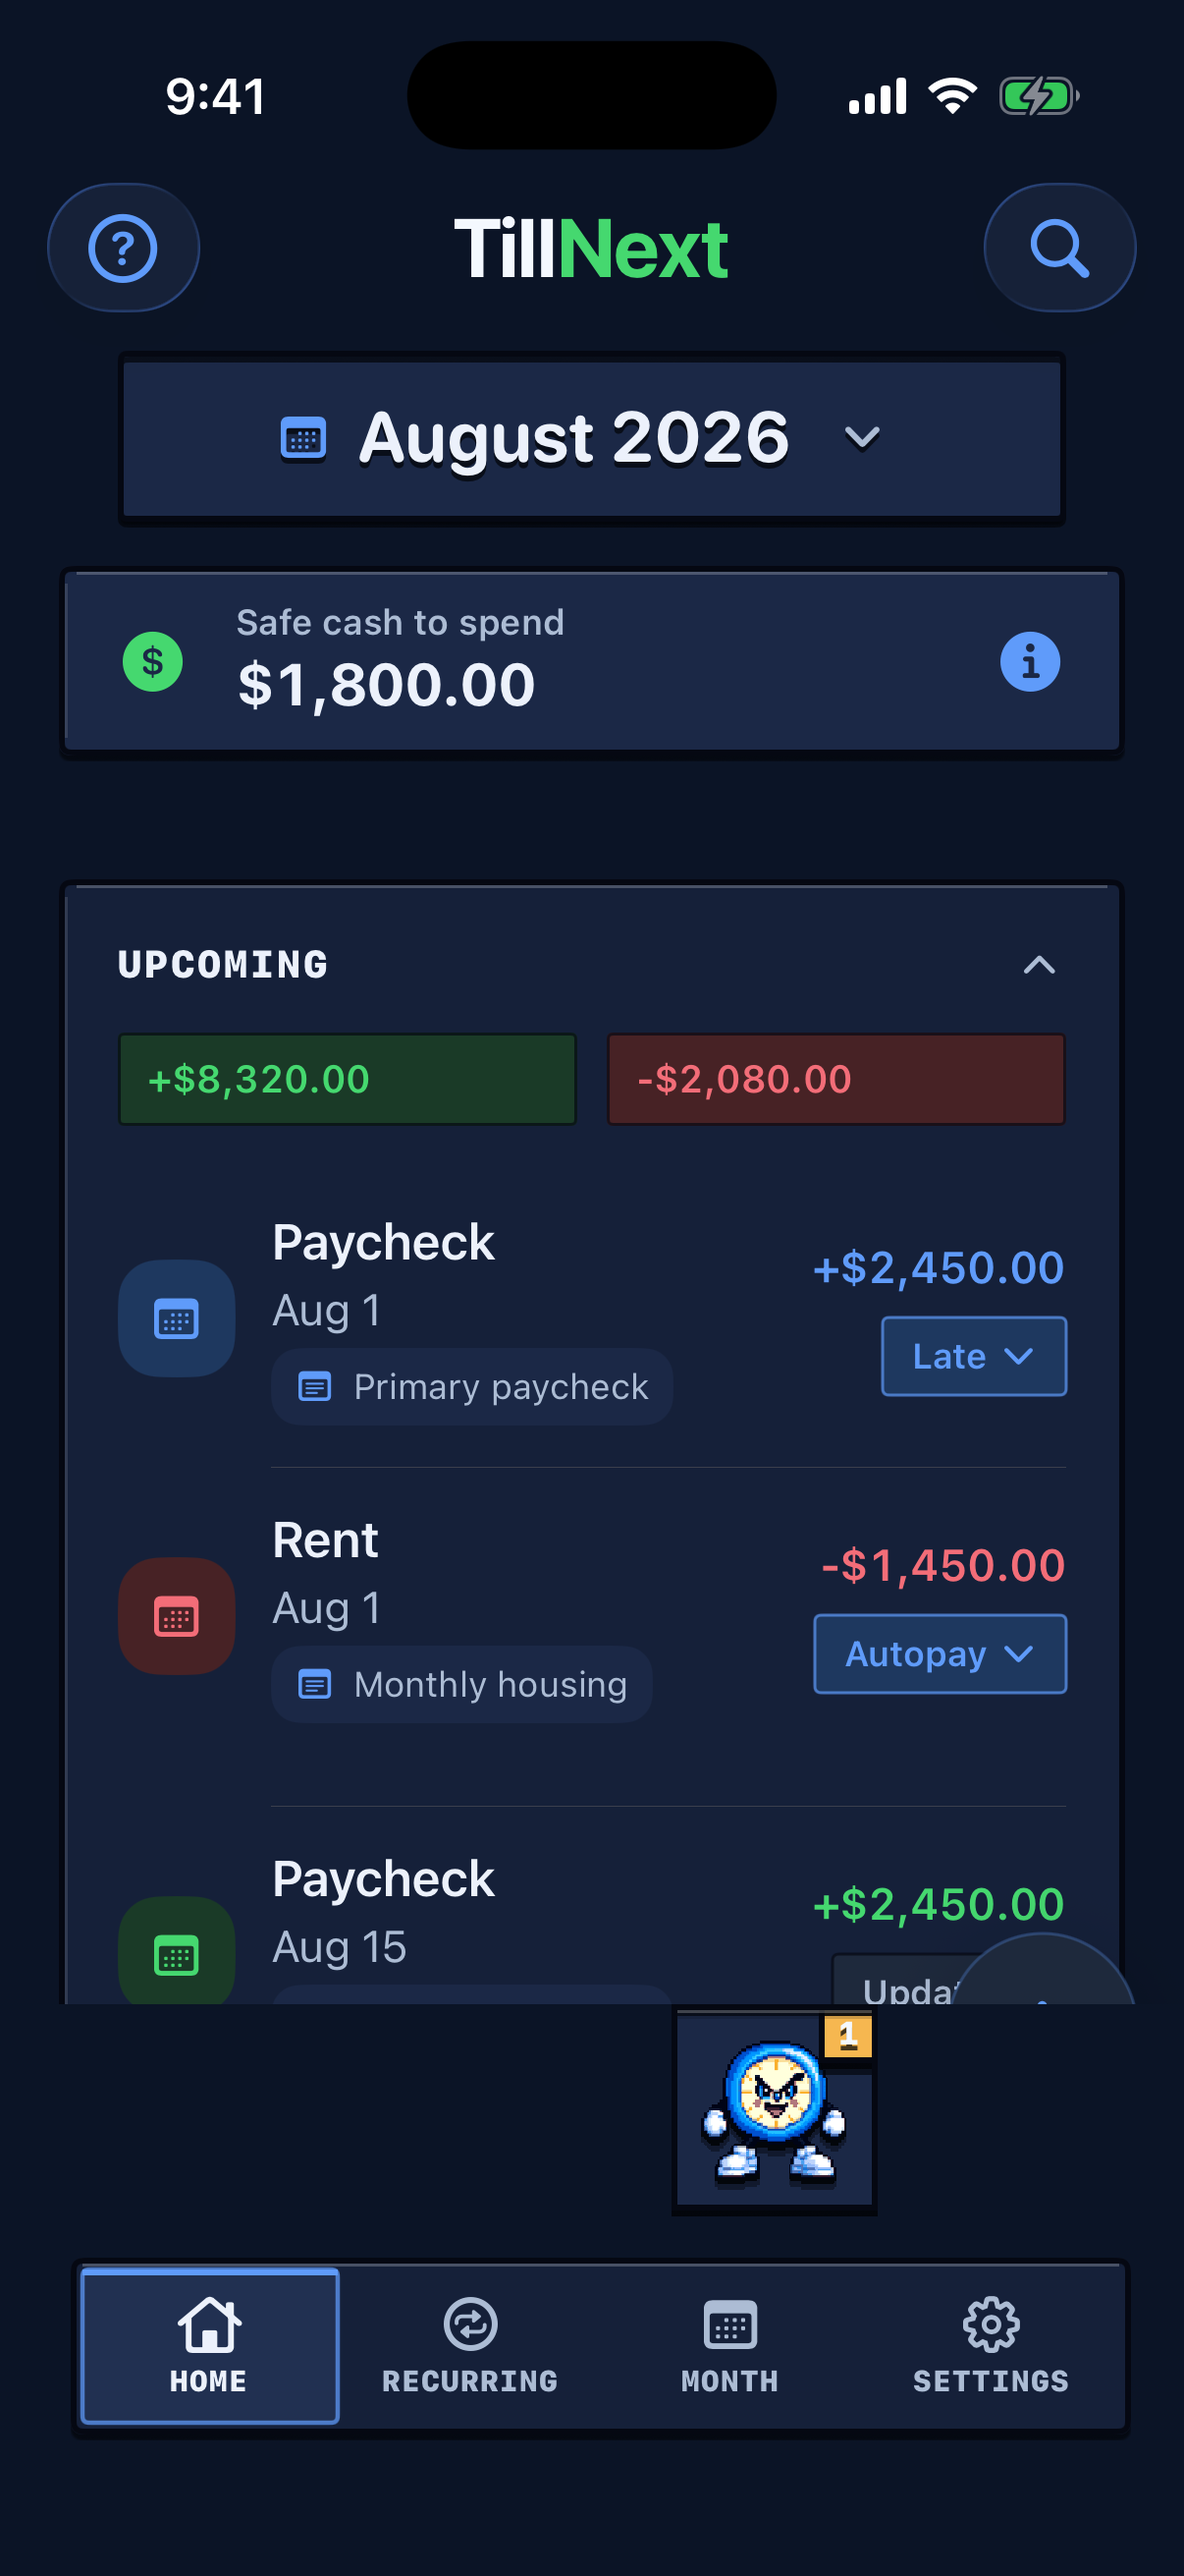
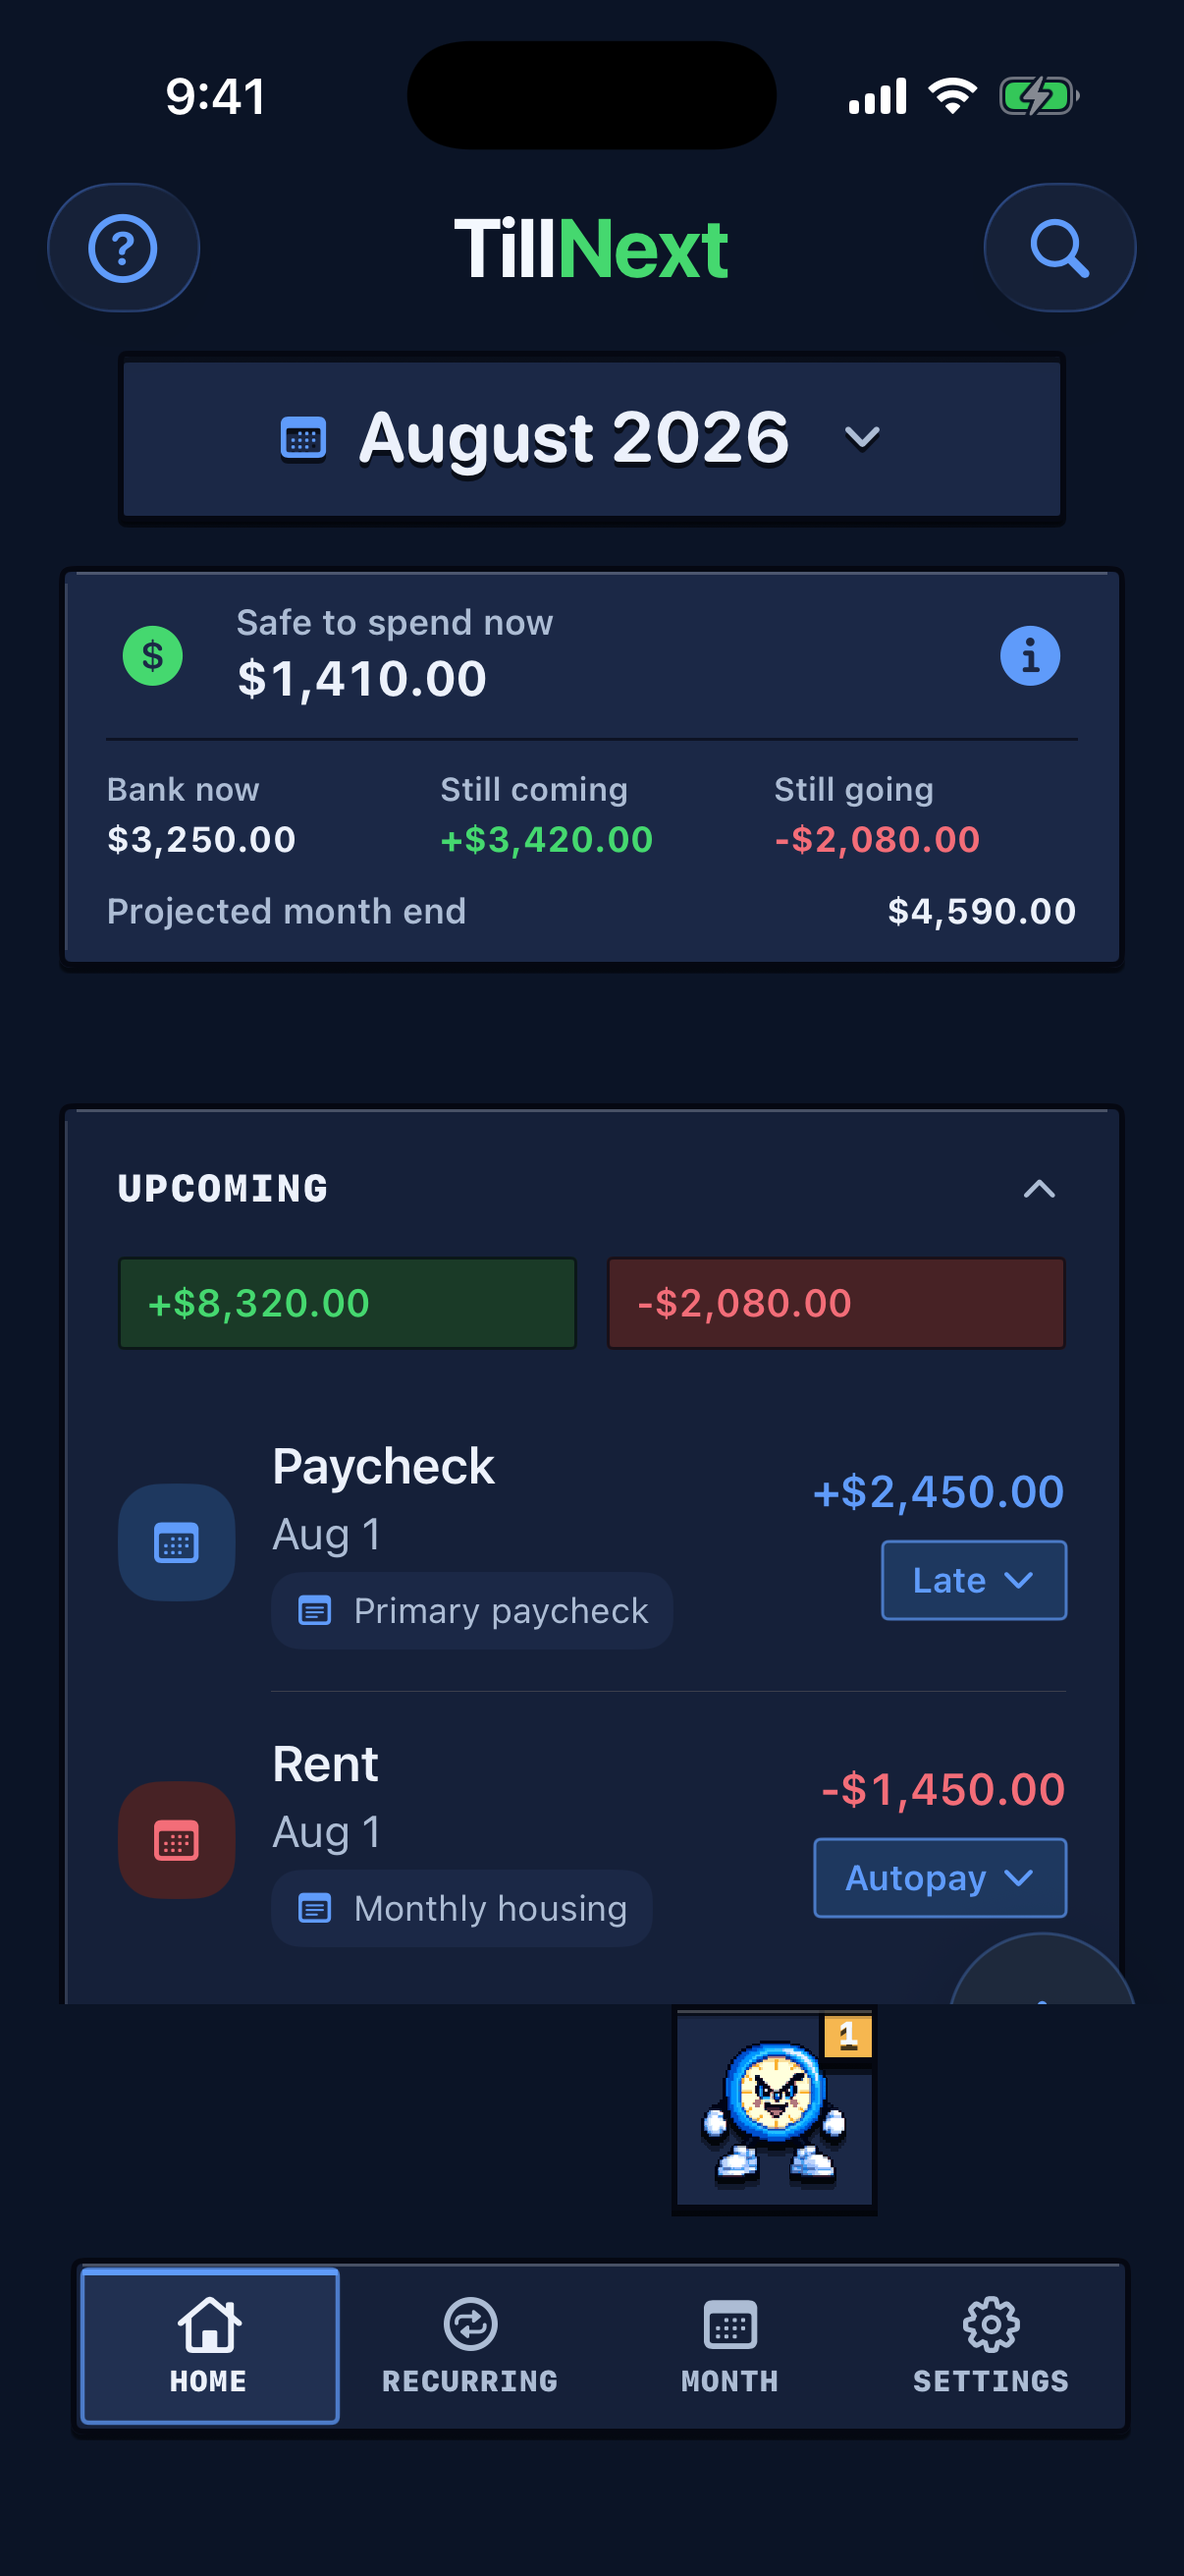
Update TillNext cash outlook help

Changed region(s): [[0.0307, 0.2162, 0.9511, 0.8032], [0.4295, 0.6178, 0.5216, 0.6796]]

diff --git a/changelog/index.html b/changelog/index.html
@@ -22,7 +22,15 @@
       <p>Public notes for meaningful TillNext changes. This page focuses on user-facing updates, privacy posture, and support information.</p>
 
       <h2>Version 1.1.9</h2>
-      <p><strong>Updated:</strong> August 5, 2026</p>
+      <p><strong>Updated:</strong> August 16, 2026</p>
+      <h3>August 16, 2026</h3>
+      <ul>
+        <li>Reworked the Home cash outlook around the bank amount now, income and expenses still to come, Safe to spend now, and the projected month-end balance.</li>
+        <li>Fixed future-month estimates so they roll forward from the current bank amount instead of relying on a separate stale starting balance.</li>
+        <li>Clarified transaction states with Expected, Deposit pending, Received, Paid waiting to clear, and Cleared from bank wording.</li>
+        <li>Fixed CSV exports so recurring income marked skipped on Home is also exported as skipped.</li>
+        <li>Kept all planning and status information private and local to the device.</li>
+      </ul>
       <h3>August 5, 2026</h3>
       <ul>
         <li>Fixed the bottom navigation and editor actions so they stay fully visible above the iPhone home indicator, including at larger text sizes.</li>
